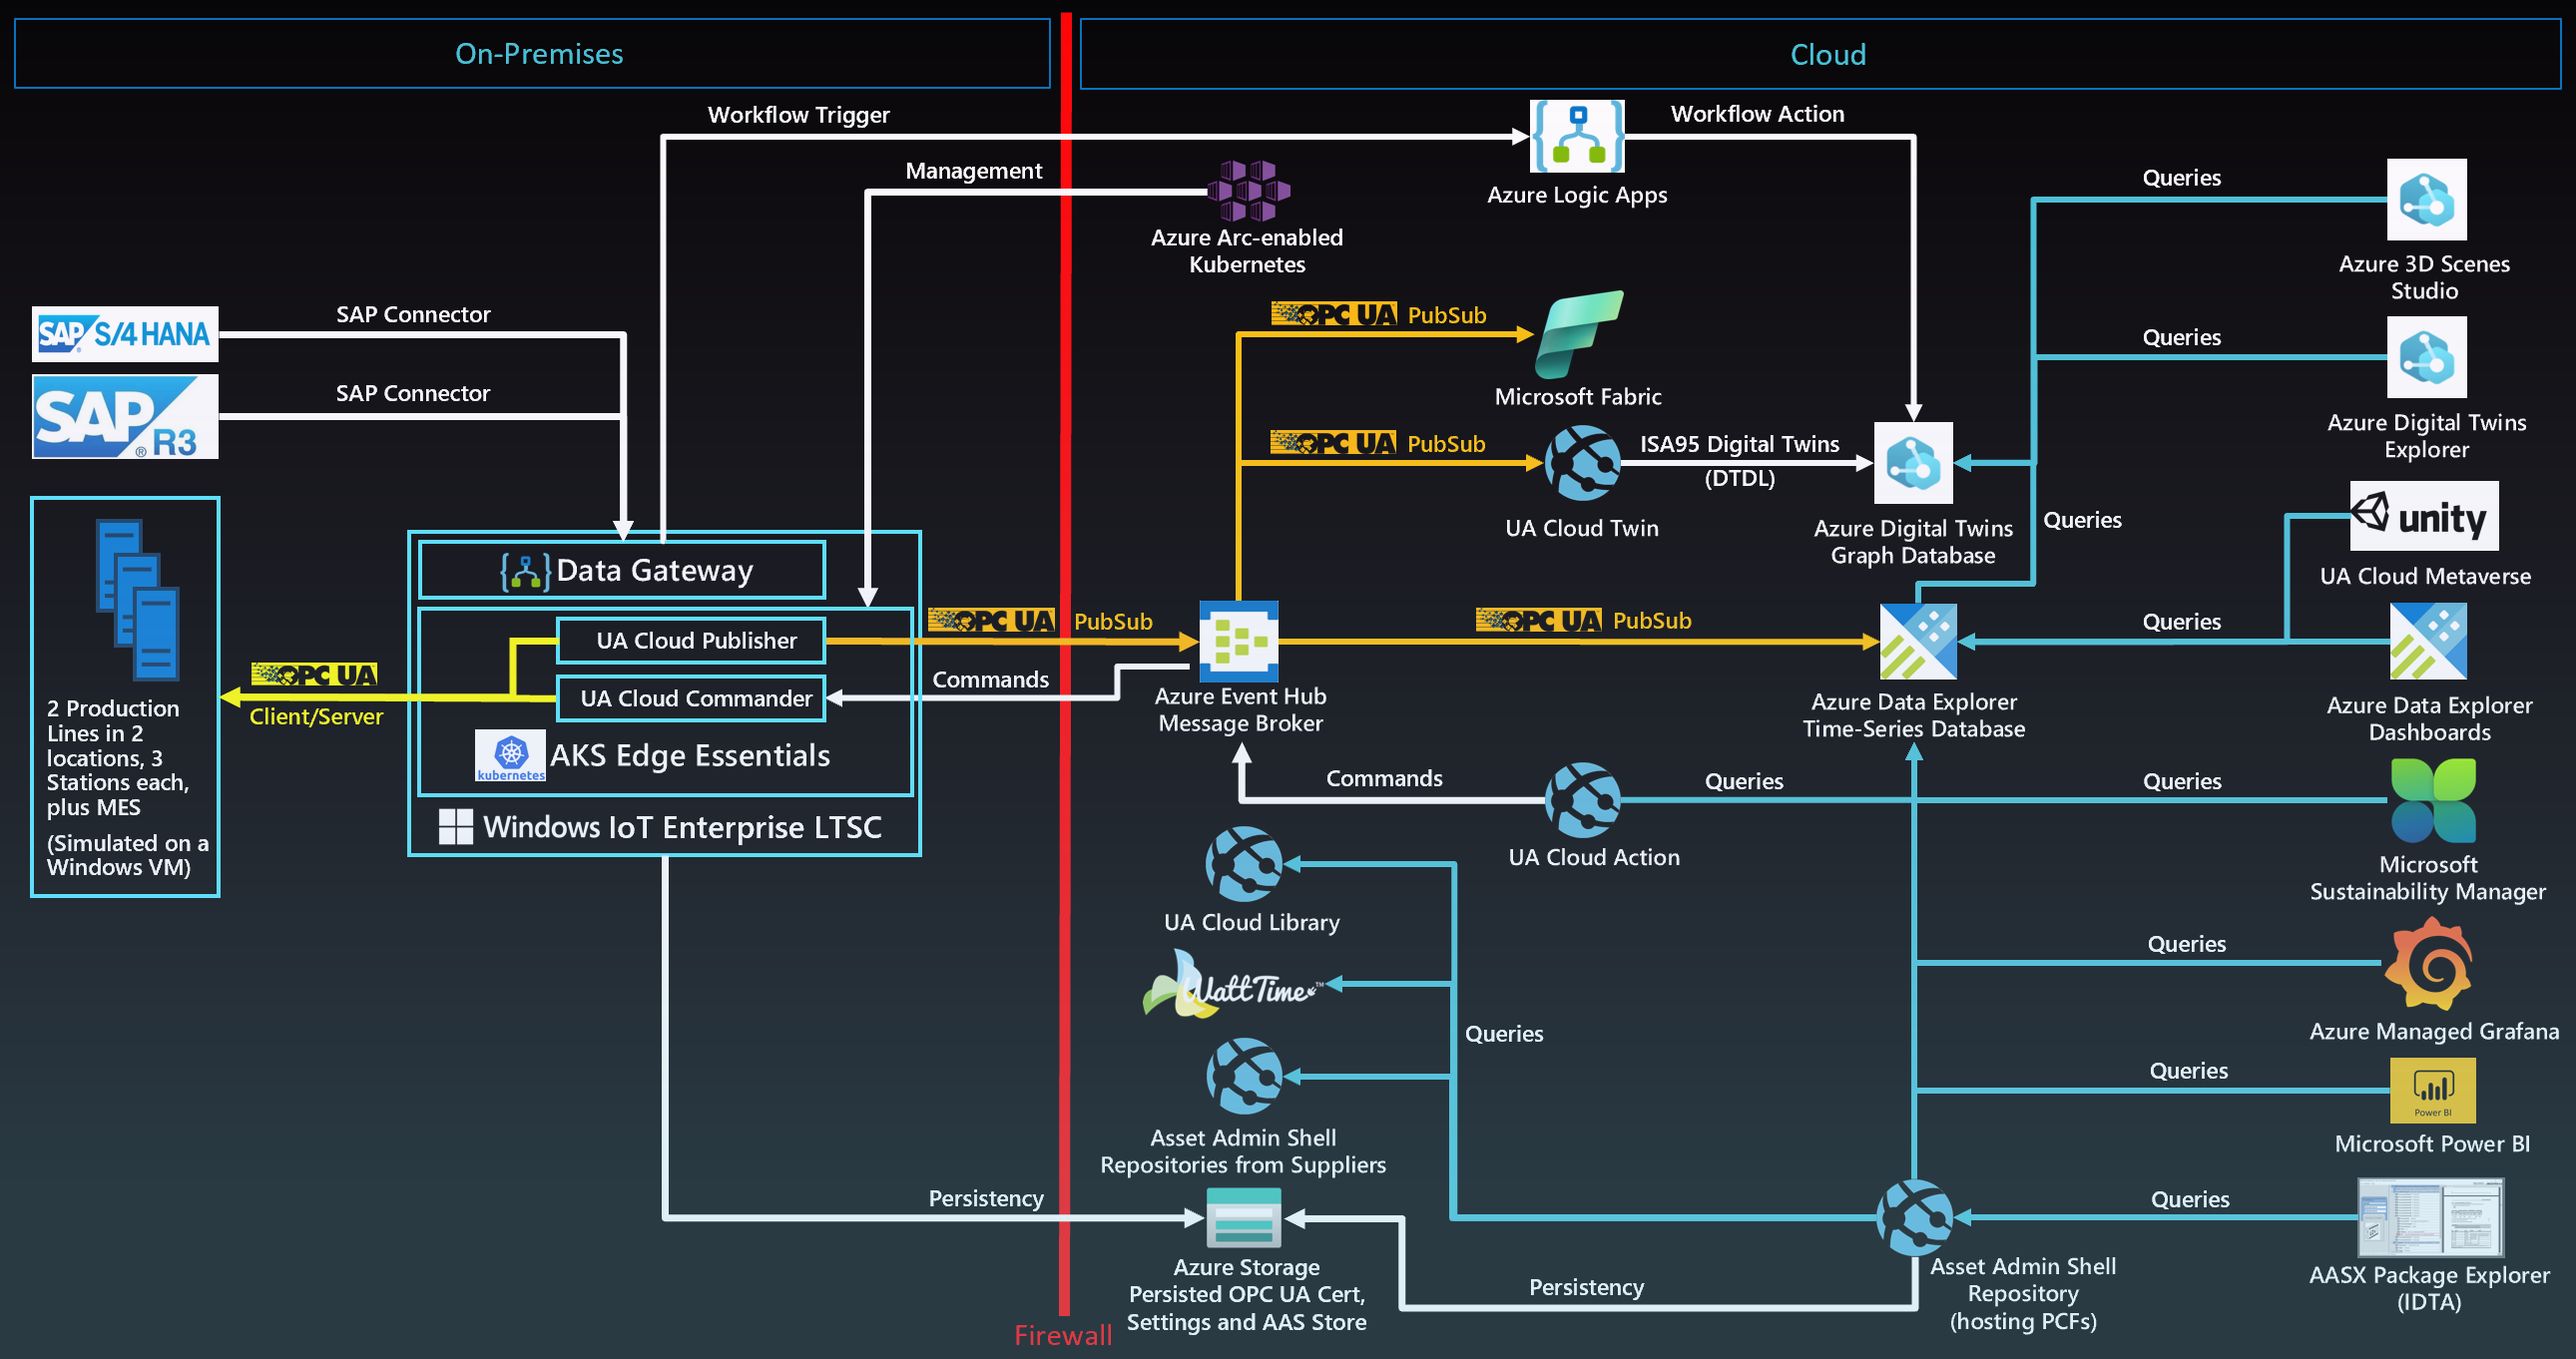
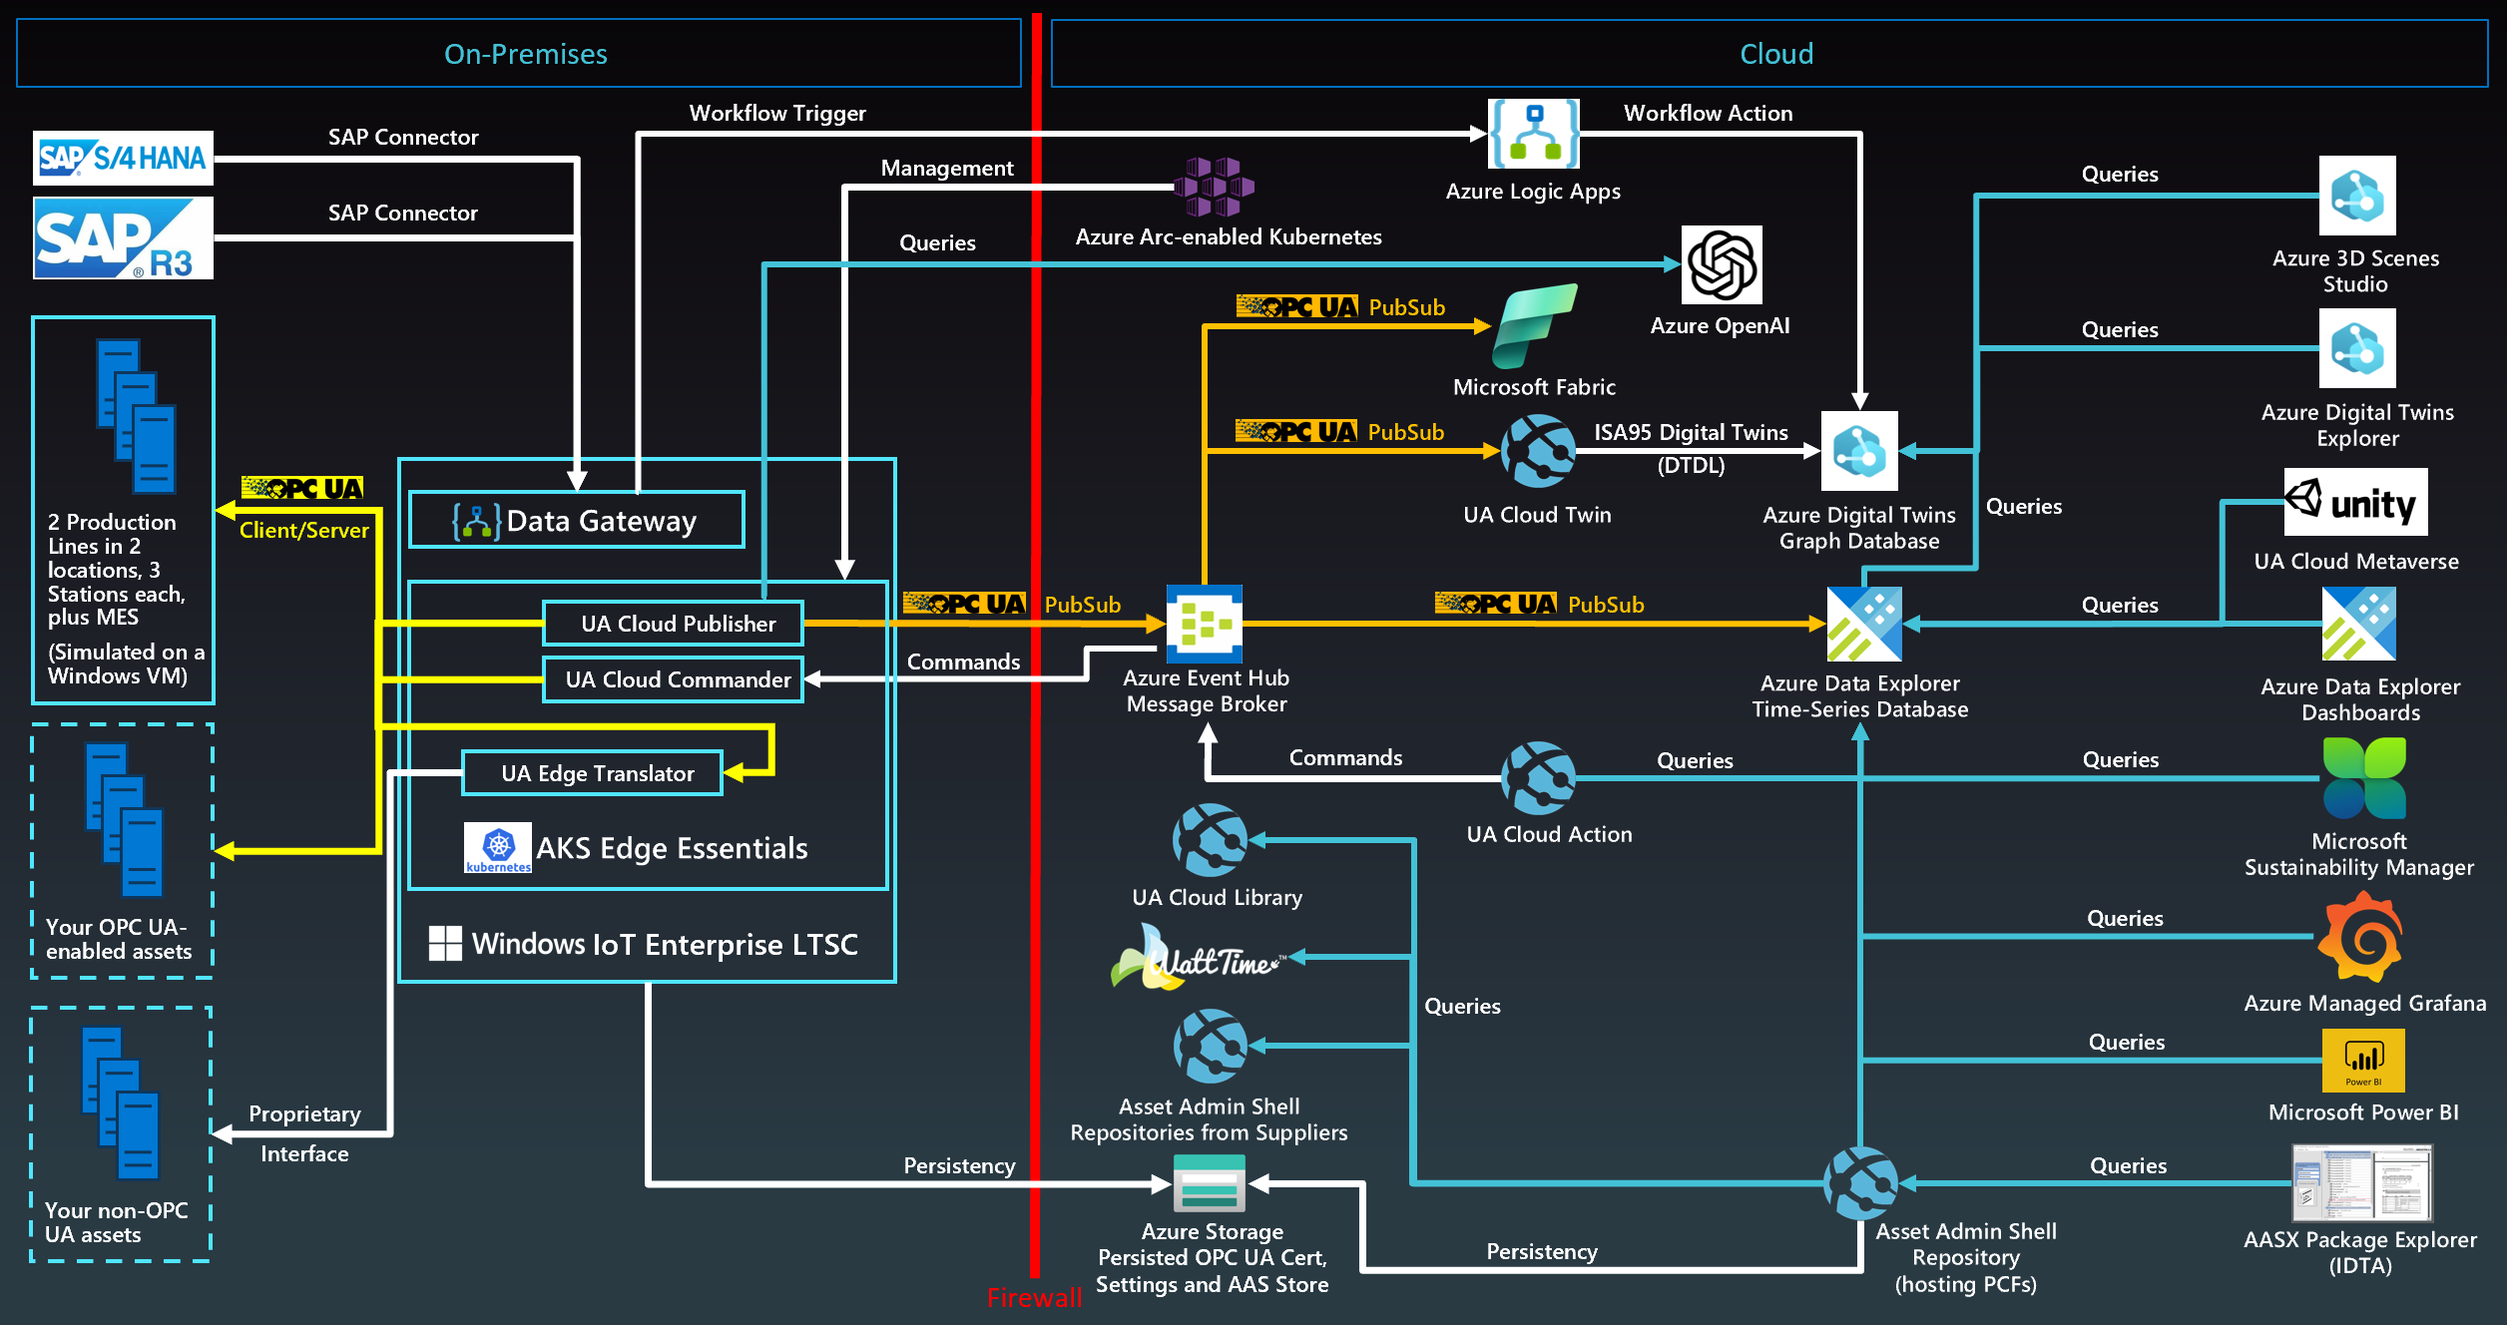
Integrated Azure OpenAI Service and UA Edge Translator.

diff --git a/README.md b/README.md
@@ -23,6 +23,7 @@
 * [Connecting the Reference Solution to Microsoft Fabric](https://github.com/digitaltwinconsortium/ManufacturingOntologies#connecting-the-reference-solution-to-microsoft-fabric)
 * [Connecting the Reference Solution to On-Premises SAP Systems](https://github.com/digitaltwinconsortium/ManufacturingOntologies#connecting-the-reference-solution-to-on-premises-sap-systems)
 * [Replacing the Production Line Simulation with a Real Production Line](https://github.com/digitaltwinconsortium/ManufacturingOntologies#replacing-the-production-line-simulation-with-a-real-production-line)
+* [Enabling Automatic Asset Onboarding with Azure OpenAI Service](https://github.com/digitaltwinconsortium/ManufacturingOntologies#enabling-automatic-asset-onboarding-with-azure-openAI-sService)
 * [License](https://github.com/digitaltwinconsortium/ManufacturingOntologies#license)
 
 
@@ -60,6 +61,7 @@ Here are the components involved in this solution:
 | Industrial Assets | A set of simulated OPC-UA enabled production lines hosted in Docker containers |
 | [UA Cloud Publisher](https://github.com/barnstee/ua-cloudpublisher) | This edge application converts OPC UA Client/Server requests into OPC UA PubSub cloud messages. It's hosted in a Docker container. |
 | [UA Cloud Commander](https://github.com/opcfoundation/ua-cloudcommander) | This edge application converts messages sent to an MQTT or Kafka broker (possibly in the cloud) into OPC UA Client/Server requests for a connected OPC UA server. It's hosted in a Docker container. |
+| [UA Edge Translator](https://github.com/OPCFoundation/UA-EdgeTranslator) | This industrial connectivity edge application translates from proprietary asset interfaces to OPC UA leveraging W3C Web of Things (WoT) Thing Descriptions as the schema to describe the industrial asset interface. |
 | [Data Gateway](https://learn.microsoft.com/en-us/azure/logic-apps/logic-apps-gateway-install#how-the-gateway-works) | This gateway connects your on-premises data sources (like SAP) to Azure Logic Apps in the cloud. |
 | [AKS Edge Essentials](https://learn.microsoft.com/en-us/azure/aks/hybrid/aks-edge-overview) | This Kubernetes implementation (both K3S and K8S are supported) runs at the Edge and provides single- and multi-node Kubernetes clusters for a fault-tolerant Edge configuration on embedded or PC-class hardware, like an industrial gateway. |
 | [Azure Event Hubs](https://learn.microsoft.com/en-us/azure/event-hubs/event-hubs-about) | The cloud message broker that receives OPC UA PubSub messages from edge gateways and stores them until they're retrieved by subscribers like the UA Cloud Twin. |
@@ -78,6 +80,7 @@ Here are the components involved in this solution:
 | [UA Cloud Metaverse](https://github.com/OPCFoundation/UA-CloudMetaverse) | This Industrial Metaverse app allows you to view digital twins of our manufacturing assets via Augmented Reality or Virtual Reality headsets. Work in progress! |
 | [Microsoft Sustainability Manager](https://github.com/digitaltwinconsortium/ManufacturingOntologies/blob/main/Tools/MicrosoftSustainabilityManager/configuremsm.md) | Microsoft Sustainability Manager is an extensible solution that unifies data intelligence and provides comprehensive, integrated, and automated sustainability management for organizations at any stage of their sustainability journey. It automates manual processes, enabling organizations to more efficiently record, report, and reduce their emissions. |
 | [Azure Managed Grafana](https://learn.microsoft.com/en-us/azure/managed-grafana/overview) | Azure Managed Grafana is a data visualization platform built on top of the Grafana software by Grafana Labs. It's built as a fully managed Azure service operated and supported by Microsoft. |
+| [Azure OpenAI Service](https://learn.microsoft.com/en-us/azure/cognitive-services/openai/overview) | Azure OpenAI Service provides REST API access to OpenAI's powerful language models including the GPT-4, GPT-35-Turbo, and Embeddings model series. |
 | [UA Cloud Library](https://github.com/OPCFoundation/UA-CloudLibrary) | The UA Cloud Library is an online store of OPC UA Information Models, hosted by the OPC Foundation [here](https://uacloudlibrary.opcfoundation.org/). |
 | [WattTime Service](https://www.watttime.org/api-documentation/#introduction) | The WattTime service can be used to get the carbon intensity for a unit of electrical energy consumed during a manufacturing process, specific to a particular geographic coordinate passed into the service. |
 | [Microsoft Power BI](https://learn.microsoft.com/en-us/power-bi/fundamentals/power-bi-overview) | Microsoft Power BI is a collection of software services, apps, and connectors that work together to turn your unrelated sources of data into coherent, visually immersive, and interactive insights. |
@@ -379,7 +382,7 @@ Note: To check for IDoc message processing errors, entering `SM58` from the SAP 
 
 Once you are ready to connect your own production line, simply delete the VM from the Azure Portal.
 
-1. Edit the UA-CloudPublisher.yaml file provided in the `Deployment` folder of this repository, replacing [yourstorageaccountname] with the name of your Azure Storage Account and [key] with the key1 of your Azure Storage Account. You can access this information from the Azure Portal on your deployed Azure Storage Account under Access keys.
+1. Edit the UA-CloudPublisher.yaml file provided in the `Deployment` folder of this repository, replacing [yourstorageaccountname] with the name of your Azure Storage Account and [key] with the key of your Azure Storage Account. You can access this information from the Azure Portal on your deployed Azure Storage Account under Access keys.
 1. Run UA Cloud Publisher with the following command. The edge PC hosting UA Cloud Publisher needs Kubernetes support and Internet access (via port 9093) and needs to be able to connect to your OPC UA-enabled machines in your production line:
 
         kubectl apply -f UA-CloudPublisher.yaml
@@ -422,6 +425,17 @@ Note: UA Cloud Publisher stores its configuration and persistency files in the c
 Note: You can check what is currently being published by selecting the Publishes Nodes tab.
 
 Note: You can see diagnostics information from UA Cloud Publisher on the Diagnostics tab.
+
+
+## Enabling Automatic Asset Onboarding with Azure OpenAI Service
+
+For your real production line, you can enable automatic asset onboarding for your industrial assets with a fixed data model (e.g. energy meters, valves, pumps etc.) via Azure OpenAI Service, UA Edge Translator and UA Cloud Publisher, by following these steps:
+
+1. Deploy an instance of Azure OpenAI Service in the Azure Portal.
+1. Deploy a Large Language Model to your Azure Open AI Service instance, GPT-4 is recommended for best results.
+1. Configure UA Cloud Publisher deployed for your own production line to use your Azure OpenAI instance via its built-in user interface.
+1. Deploy UA Edge Translator on a PC with Kubernetes support located in the same network as your industrial asset and UA Cloud Publisher. You can use the UA-EdgeTranslator.yaml file from the `Deployment` folder of this repository by calling `kubectl apply -f UA-EdgeTranslator.yaml`.
+1. Create a Web of Things (WoT) Thing Description using the Azure OpenAI Service via the UA Cloud Publisher's user interface and send it to UA Edge Translator.
 
 
 ## License
